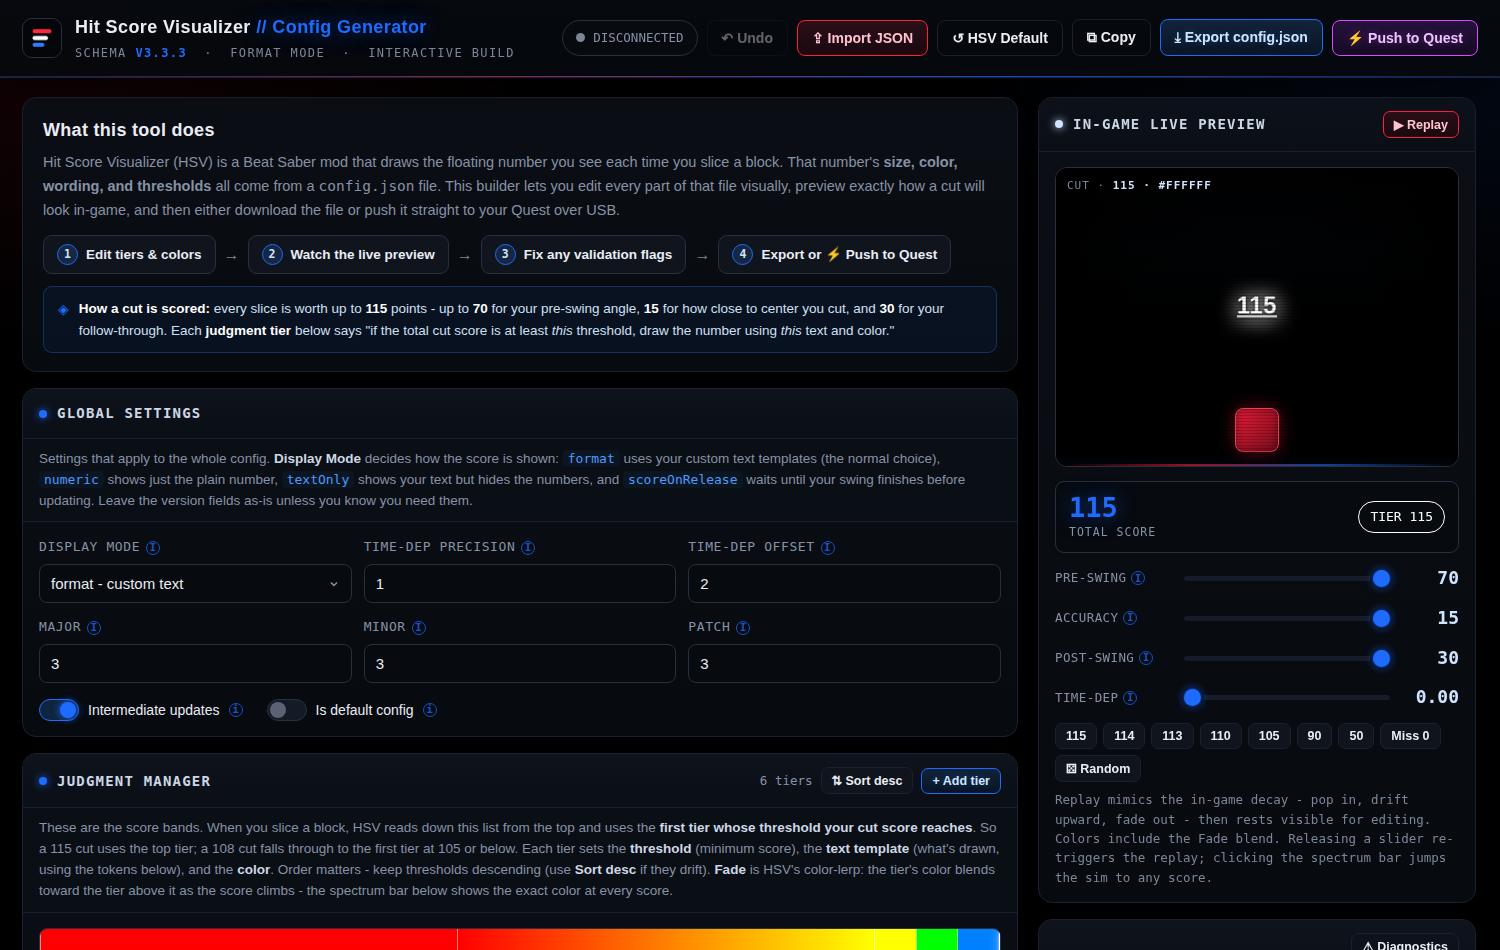
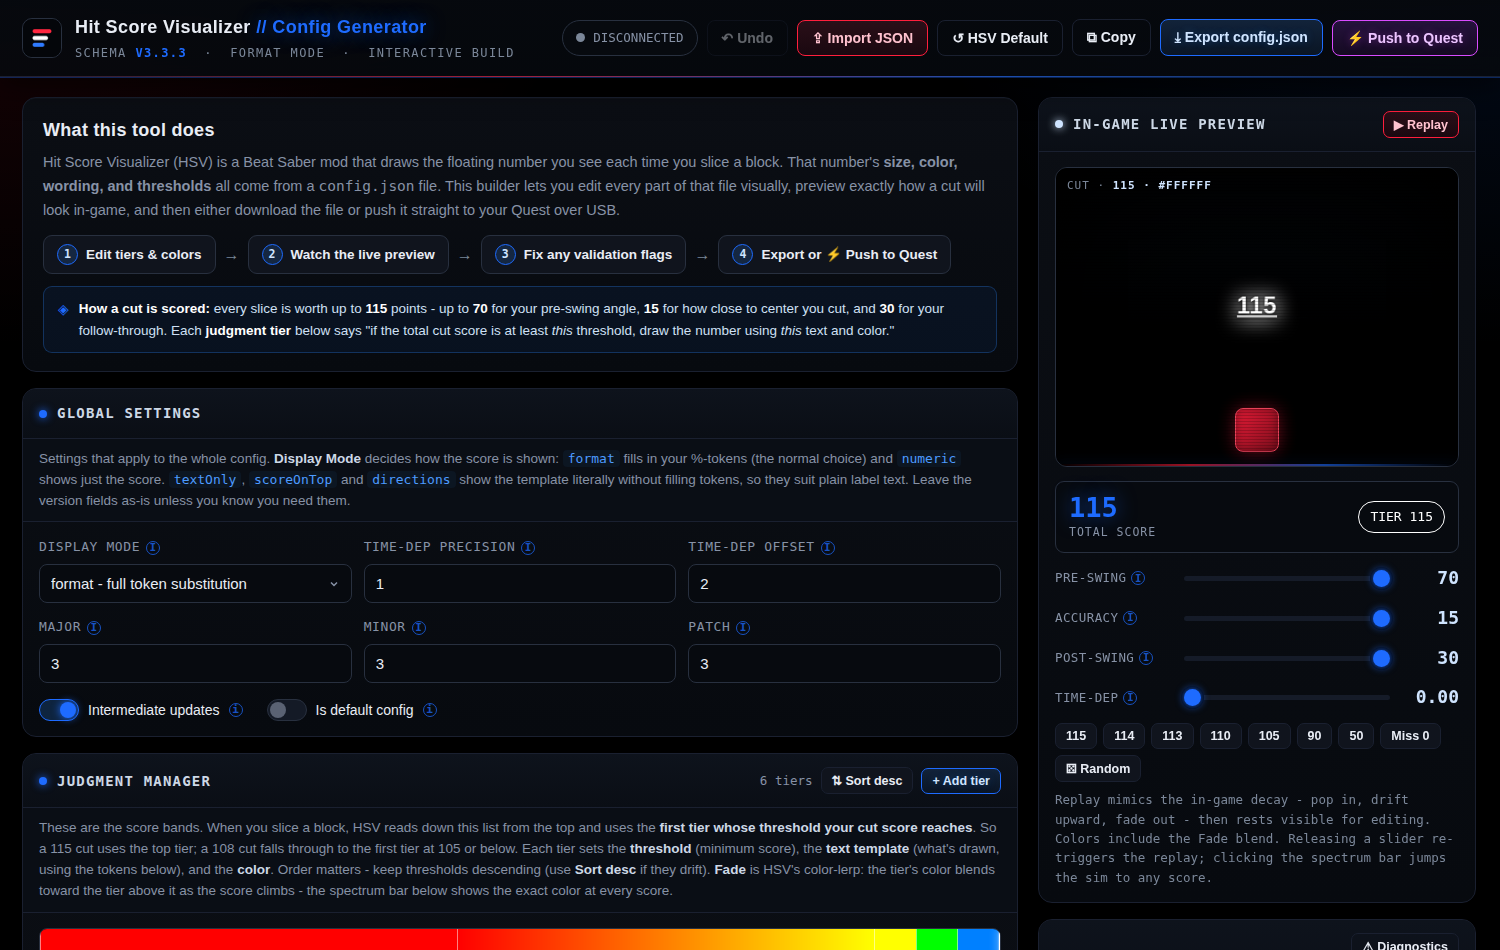
Fix token mapping, display modes, Quest path, and validation
- %t now renders time dependence and %d the cut direction (was swapped)
- Replace invalid scoreOnRelease mode with real scoreOnTop/directions
- Default Quest path drops the nonexistent /Configs subfolder
- Promote mod-fatal conditions (tier order, top-tier fade, bad mode,
  sub-judgment order) from warnings to errors
- Harden the color-tag renderer against style-attribute breakout
- Quest filename reduced to basename; minor validation/drag fixes

Changed region(s): [[0.0307, 0.4579, 0.644, 0.5495], [0.0613, 0.6105, 0.1533, 0.6411]]

diff --git a/index.html b/index.html
@@ -542,16 +542,17 @@ a.kofi-support:hover{transform:translateY(-2px);border-color:#ff2740;box-shadow:
     <!-- Global settings -->
     <section class="panel">
       <div class="panel-head"><span class="dot"></span><h2>Global Settings</h2></div>
-      <div class="panel-sub">Settings that apply to the whole config. <b>Display Mode</b> decides how the score is shown: <code>format</code> uses your custom text templates (the normal choice), <code>numeric</code> shows just the plain number, <code>textOnly</code> shows your text but hides the numbers, and <code>scoreOnRelease</code> waits until your swing finishes before updating. Leave the version fields as-is unless you know you need them.</div>
+      <div class="panel-sub">Settings that apply to the whole config. <b>Display Mode</b> decides how the score is shown: <code>format</code> fills in your %-tokens (the normal choice) and <code>numeric</code> shows just the score. <code>textOnly</code>, <code>scoreOnTop</code> and <code>directions</code> show the template literally without filling tokens, so they suit plain label text. Leave the version fields as-is unless you know you need them.</div>
       <div class="panel-body">
         <div class="grid-3">
           <div>
-            <label class="field">Display Mode <span class="info" data-tip="How HSV draws the score popup. format = your custom text templates (normal choice). numeric = just the plain number. textOnly = your words with the numbers stripped. scoreOnRelease = waits until your swing fully finishes instead of updating mid-swing.">i</span></label>
+            <label class="field">Display Mode <span class="info" data-tip="How HSV draws the score popup. format = your templates with %-tokens filled in (normal choice). numeric = just the score number, text ignored. textOnly / scoreOnTop / directions show the template literally (tokens are NOT filled in), so those pair with plain label text like FANTASTIC: textOnly = label only, scoreOnTop = score above the label, directions = label then the cut-direction arrow.">i</span></label>
             <select id="displayMode">
-              <option value="format">format - custom text</option>
-              <option value="numeric">numeric - just the number</option>
-              <option value="textOnly">textOnly - text, no numbers</option>
-              <option value="scoreOnRelease">scoreOnRelease - update on release</option>
+              <option value="format">format - full token substitution</option>
+              <option value="numeric">numeric - just the score number</option>
+              <option value="textOnly">textOnly - label text, tokens not replaced</option>
+              <option value="scoreOnTop">scoreOnTop - score above your text</option>
+              <option value="directions">directions - your text + cut arrow</option>
             </select>
           </div>
           <div>
@@ -655,7 +656,8 @@ a.kofi-support:hover{transform:translateY(-2px);border-color:#ff2740;box-shadow:
           <span class="tokenchip c2" title="Pre-swing text from Before-Cut judgments">%B</span>
           <span class="tokenchip c2" title="Accuracy text from Accuracy judgments">%C</span>
           <span class="tokenchip c2" title="Post-swing text from After-Cut judgments">%A</span>
-          <span class="tokenchip" title="Time dependence value">%d</span>
+          <span class="tokenchip" title="Time dependence value">%t</span>
+          <span class="tokenchip" title="Cut-direction arrow (bad cuts); blank on a clean cut">%d</span>
           <span class="tokenchip c2" title="Time dependence text">%T</span>
           <span class="tokenchip" title="Newline">%n</span>
           <span class="tokenchip" title="Literal percent sign">%%</span>
@@ -714,14 +716,14 @@ a.kofi-support:hover{transform:translateY(-2px);border-color:#ff2740;box-shadow:
         <ol class="steps">
           <li>On the Quest, enable <b>Developer Mode</b> (Meta Quest phone app → your headset → Developer Mode → on).</li>
           <li>Plug the headset into this PC with a USB-C cable. Inside the headset, approve <b>"Allow USB debugging"</b> when it pops up (tick <i>Always allow</i>).</li>
-          <li>Beat Saber must have been launched <b>at least once with HSV installed</b>, so the <code>Configs</code> folder exists.</li>
+          <li>Beat Saber must have been launched <b>at least once with HSV installed</b>, so the mod has created its folder.</li>
           <li>Click <b>Connect</b>, pick your headset in Chrome's device list, then <b>Push config</b>.</li>
         </ol>
 
         <div class="field-row">
           <div>
             <label class="field">Destination folder <span class="info" data-tip="The folder on the Quest where the HSV mod looks for config files. The default is the standard modded-Beat-Saber path - only change it if your setup stores mod data somewhere else.">i</span></label>
-            <input type="text" id="qPath" spellcheck="false" value="/sdcard/ModData/com.beatgames.beatsaber/Mods/HitScoreVisualizer/Configs">
+            <input type="text" id="qPath" spellcheck="false" value="/sdcard/ModData/com.beatgames.beatsaber/Mods/HitScoreVisualizer">
           </div>
         </div>
         <div class="field-row">
@@ -751,7 +753,7 @@ a.kofi-support:hover{transform:translateY(-2px);border-color:#ff2740;box-shadow:
           <div class="hb">
             <b style="color:#cdd8e2">"Push to Quest" is greyed out or says WebUSB unavailable</b> - WebUSB needs desktop Chrome or Edge (Firefox and Safari don't support it), and the app must be in its own browser tab, not embedded inside another page. Open <a href="https://spanky3651.github.io/HSV-Config-Generator/" target="_blank" rel="noopener">the app directly</a> and try again.<br><br>
             <b style="color:#cdd8e2">Headset never appears in the picker</b> - the cable must carry data (some charge-only cables don't), Developer Mode must be on, and you must accept the USB-debugging prompt inside the headset. Make sure no other ADB tool (SideQuest, BMBF, a terminal <code>adb</code>) is holding the connection - only one can own it at a time.<br><br>
-            <b style="color:#cdd8e2">"Configs folder not found"</b> - launch Beat Saber once with HSV installed so the mod creates its folder, then try again. You can also point <i>Destination folder</i> anywhere you like.<br><br>
+            <b style="color:#cdd8e2">"HSV folder not found"</b> - launch Beat Saber once with HSV installed so the mod creates its folder, then try again. You can also point <i>Destination folder</i> anywhere you like.<br><br>
             <b style="color:#cdd8e2">In-game</b> - after pushing, open Beat Saber → Mods → HitScoreVisualizer and select the config (or reload) to apply it.
           </div>
         </details>
@@ -782,7 +784,7 @@ a.kofi-support:hover{transform:translateY(-2px);border-color:#ff2740;box-shadow:
 
 <div class="foot">
   HitScoreVisualizer config generator · single-file build · no external dependencies<br>
-  Export produces a schema-valid config.json ready for the HSV mod's <span style="color:var(--accent)">/UserData/HitScoreVisualizer/Configs/</span> folder.<br>
+  Export produces a schema-valid config.json ready for the HSV mod's <span style="color:var(--accent)">HitScoreVisualizer</span> folder (UserData on PC, ModData on Quest).<br>
   <a class="credit" href="https://beatleader.com/u/76561199153577883" target="_blank" rel="noopener" title="MSploit on BeatLeader">
[1 lines of base64/hex data omitted]
     <span class="ctxt">
@@ -797,7 +799,7 @@ a.kofi-support:hover{transform:translateY(-2px);border-color:#ff2740;box-shadow:
   </div>
   <div class="foot-meta">
     <div class="foot-count" id="footCount" hidden></div>
-    <div class="foot-updated" id="footUpdated" data-updated="2026-10-04T10:29:31Z">Last updated recently</div>
+    <div class="foot-updated" id="footUpdated" data-updated="2026-10-06T00:00:00Z">Last updated recently</div>
   </div>
 </div>
 
@@ -948,7 +950,8 @@ function substituteTokens(text, s){
   out = out.replace(/%a/g, s.post);
   out = out.replace(/%s/g, total);
   out = out.replace(/%p/g, (total/115*100).toFixed(2));
-  out = out.replace(/%d/g, fmtTimeDep(s.timeDep));
+  out = out.replace(/%t/g, fmtTimeDep(s.timeDep));  // time dependence value (mod token is %t)
+  out = out.replace(/%d/g, s.dir||"");              // cut-direction arrow; empty on a clean cut
   out = out.replace(/%n/g, "\n");
   out = out.replace(//g, "%");
   return out;
@@ -961,16 +964,22 @@ function escapeHtml(t){
   return t.replace(/&/g,"&amp;").replace(/</g,"&lt;").replace(/>/g,"&gt;");
 }
 function colorTagToCss(val){
-  val = val.trim().replace(/^"|"$/g,"");
-  if(val[0]==="#"){
-    let h=val.slice(1);
+  // Rendered into a style="" attribute, so accept ONLY hex or a letters-only
+  // named color; anything else (quotes, spaces, semicolons) is rejected so a
+  // crafted <color=...> tag in an imported config cannot break out of the attribute.
+  val = String(val).trim().replace(/^"|"$/g,"");
+  const m = val.match(/^#([0-9a-fA-F]+)$/);
+  if(m){
+    const h=m[1];
     if(h.length===8){
       const r=parseInt(h.slice(0,2),16),g=parseInt(h.slice(2,4),16),b=parseInt(h.slice(4,6),16),a=parseInt(h.slice(6,8),16)/255;
       return "rgba("+r+","+g+","+b+","+a.toFixed(3)+")";
     }
-    return "#"+h;
+    if(h.length===3||h.length===4||h.length===6) return "#"+h;   // CSS-valid hex (TMP allows #RGB/#RGBA too)
+    return "inherit";                                            // 5/7 hex digits = invalid
   }
-  return val; // named color
+  if(/^[a-zA-Z]+$/.test(val)) return val.toLowerCase();          // named color
+  return "inherit";                                             // reject everything else
 }
 function tmpToHtml(str){
   const parts = str.split(/(<[^>]*>)/g);
@@ -1047,7 +1056,7 @@ function renderJudgments(){
           <input type="number" value="${j.threshold}" data-field="threshold" data-idx="${idx}" min="0" max="115" step="1">
         </div>
         <div class="jgrow">
-          <label class="field">Text template <span class="info" data-tip="What gets drawn for this tier. Tokens: %s = score, %B / %C / %A = swing-part text from the Sub-Judgments panel, %d / %T = time dependency, %n = newline. Style with TMP tags like <size=150%> or <color=#1e6bff>.">i</span></label>
+          <label class="field">Text template <span class="info" data-tip="What gets drawn for this tier. Tokens: %s = score, %B / %C / %A = swing-part text from the Sub-Judgments panel, %t / %T = time dependency, %d = cut direction, %n = newline. Style with TMP tags like <size=150%> or <color=#1e6bff>.">i</span></label>
           <textarea data-field="text" data-idx="${idx}" rows="1" spellcheck="false">${escapeHtml(j.text||"")}</textarea>
         </div>
         <div class="jcard-tools">
@@ -1145,6 +1154,7 @@ let dragIdx=null;
 function attachDragEvents(){
   document.querySelectorAll('#jlist .jcard').forEach(card=>{
     card.addEventListener("dragstart",e=>{ dragIdx=+card.dataset.idx; e.dataTransfer.effectAllowed="move"; });
+    card.addEventListener("dragend",()=>{ dragIdx=null; });  // clear so a cancelled drag cannot move a tier later
     card.addEventListener("dragover",e=>{ e.preventDefault(); card.classList.add("dragover"); });
     card.addEventListener("dragleave",()=>card.classList.remove("dragover"));
     card.addEventListener("drop",e=>{
@@ -1241,10 +1251,11 @@ function renderPreview(triggerAnim){
   if(state.displayMode==="numeric"){
     rendered = String(total);
   } else if(state.displayMode==="textOnly"){
-    // text template but with numeric score tokens blanked
-    let t = String(tier.text||"");
-    t = t.replace(/%s/g,"").replace(/%b/g,"").replace(/%c/g,"").replace(/%a/g,"").replace(/%p/g,"").replace(/%d/g,"");
-    rendered = substituteTokens(t, sim);
+    rendered = String(tier.text||"");                        // mod shows the template literally (no token fill)
+  } else if(state.displayMode==="scoreOnTop"){
+    rendered = total + "\n" + String(tier.text||"");         // score on top, then the raw template
+  } else if(state.displayMode==="directions"){
+    rendered = String(tier.text||"") + "\n";                 // raw template, then cut direction (blank in sim)
   } else {
     rendered = substituteTokens(tier.text||"", sim);
   }
@@ -1332,7 +1343,7 @@ function validate(){
     if(J[i].threshold in seen){ items.push(["err","Duplicate threshold "+J[i].threshold+" (tiers #"+(seen[J[i].threshold]+1)+" & #"+(i+1)+"). Only the first is ever reachable."]); }
     else seen[J[i].threshold]=i;
     if(i>0 && J[i].threshold >= J[i-1].threshold){
-      items.push(["warn","Tier #"+(i+1)+" (thr "+J[i].threshold+") is not below tier #"+i+" (thr "+J[i-1].threshold+"). HSV matches top-down - this tier may be unreachable. Use “Sort desc”."]);
+      items.push(["err","Tier #"+(i+1)+" (thr "+J[i].threshold+") is not below tier #"+i+" (thr "+J[i-1].threshold+"). HSV rejects a config whose tiers are not in descending order. Use “Sort desc”."]);
     }
     if(J[i].threshold>115) items.push(["warn","Tier #"+(i+1)+" threshold "+J[i].threshold+" exceeds the 115 max cut score - unreachable."]);
     if(J[i].threshold<0) items.push(["err","Tier #"+(i+1)+" has a negative threshold."]);
@@ -1356,7 +1367,7 @@ function validate(){
       if(opens>closes){ items.push(["warn","Tier #"+(i+1)+" has "+(opens-closes)+" rich-text tag(s) opened but never closed - styles may leak in-game."]); }
       // unknown % tokens (strip rich-text tags first so <size=200%> isn't mistaken for a token)
       const stripped=t.replace(/<[^>]*>/g,"").replace(/%%/g,"");
-      const bad=(stripped.match(/%[^BbCcAasdpTn]/g)||[]);
+      const bad=(stripped.match(/%[^BbCcAasdpTtn]/g)||[]);
       if(bad.length){ items.push(["warn","Tier #"+(i+1)+" has unrecognized token(s): "+[...new Set(bad)].join(", ")+"."]); }
     });
   }
@@ -1369,7 +1380,7 @@ function validate(){
       if(r.threshold>max) items.push(["warn",lbl+" row #"+(i+1)+" threshold "+r.threshold+" exceeds its "+max+" max."]);
       if(r.threshold<0) items.push(["err",lbl+" row #"+(i+1)+" threshold is negative."]);
     });
-    for(let i=1;i<arr.length;i++){ if(arr[i].threshold>=arr[i-1].threshold){ items.push(["warn",lbl+" rows are not in descending order - check row #"+(i+1)+"."]); break; } }
+    for(let i=1;i<arr.length;i++){ if(arr[i].threshold>=arr[i-1].threshold){ items.push(["err",lbl+" rows must be in descending order with no duplicate thresholds, or HSV rejects the config - check row #"+(i+1)+"."]); break; } }
     if(arr.length && !arr.some(r=>r.threshold<=0)) items.push(["warn",lbl+" has no 0 catch-all row."]);
   });
 
@@ -1379,10 +1390,10 @@ function validate(){
 
   // config-level sanity
   if(state.isDefaultConfig){ items.push(["warn","isDefaultConfig is true - HSV treats default configs as its own and may overwrite or ignore your edits. Keep it false for custom configs."]); }
-  const VALID_MODES=["format","numeric","textOnly","scoreOnRelease"];
-  if(VALID_MODES.indexOf(state.displayMode)===-1){ items.push(["warn","displayMode \""+state.displayMode+"\" is not a standard HSV mode ("+VALID_MODES.join(" / ")+")."]); }
+  const VALID_MODES=["format","numeric","textOnly","scoreOnTop","directions"];
+  if(VALID_MODES.indexOf(state.displayMode)===-1){ items.push(["err","displayMode \""+state.displayMode+"\" is not a valid HSV mode, so the config will not load. Use one of: "+VALID_MODES.join(" / ")+"."]); }
   const sortedJx=J.slice().sort((a,b)=>b.threshold-a.threshold);
-  if(sortedJx.length && sortedJx[0].fade){ items.push(["warn","The highest tier ("+sortedJx[0].threshold+") has Fade on, but there is no tier above it to blend toward - Fade does nothing there."]); }
+  if(sortedJx.length && sortedJx[0].fade){ items.push(["err","The highest tier ("+sortedJx[0].threshold+") has Fade on. HSV rejects a config whose top judgment has fade=true - turn Fade off on the highest tier."]); }
 
   if(!items.length){ items.push(["ok","Config is valid. No conflicts detected."]); }
 
@@ -1552,8 +1563,8 @@ document.getElementById("tdOffset").addEventListener("input",e=>{ state.timeDepe
 document.getElementById("verMajor").addEventListener("input",e=>{ state.majorVersion=clampInt(e.target.value,0,99); refreshLive(); });
 document.getElementById("verMinor").addEventListener("input",e=>{ state.minorVersion=clampInt(e.target.value,0,99); refreshLive(); });
 document.getElementById("verPatch").addEventListener("input",e=>{ state.patchVersion=clampInt(e.target.value,0,99); refreshLive(); });
-document.getElementById("doInter").addEventListener("change",e=>{ state.doIntermediateUpdates=e.target.checked; updateJsonView(); });
-document.getElementById("isDefault").addEventListener("change",e=>{ state.isDefaultConfig=e.target.checked; updateJsonView(); });
+document.getElementById("doInter").addEventListener("change",e=>{ state.doIntermediateUpdates=e.target.checked; refreshLive(); });
+document.getElementById("isDefault").addEventListener("change",e=>{ state.isDefaultConfig=e.target.checked; refreshLive(); });
 
 // Judgment add / sort
 document.getElementById("btnAddJudgment").addEventListener("click",()=>{
@@ -1827,7 +1838,7 @@ async function questConnect(){
     track("quest-connect");
     qlog("Authenticated. Connected to "+model+".","ok");
 
-    // Check the Configs folder exists
+    // Check the destination (HSV mod) folder exists
     await checkConfigsFolder();
 
     Q.el.push.disabled=false;
@@ -1876,11 +1887,11 @@ async function checkConfigsFolder(){
     await sync.dispose?.();
     Q.el.configs.textContent = exists ? "found ✓" : "not found";
     Q.el.configs.style.color = exists ? "var(--accent)" : "var(--warn)";
-    if(exists) qlog("Configs folder found on headset.","ok");
-    else qlog("Configs folder not found - launch Beat Saber once with HSV installed, or change the destination path.","warn");
+    if(exists) qlog("HSV folder found on headset.","ok");
+    else qlog("HSV folder not found - launch Beat Saber once with HSV installed, or change the destination path.","warn");
     return exists;
   }catch(e){
-    qlog("Could not stat Configs folder: "+((e&&e.message)||e),"warn");
+    qlog("Could not stat the destination folder: "+((e&&e.message)||e),"warn");
     Q.el.configs.textContent="unknown";
     return false;
   }
@@ -1890,7 +1901,8 @@ async function questPush(){
   if(!Q.adb){ qlog("Not connected.","err"); return; }
   Q.el.push.disabled=true;
   const dir=Q.el.path.value.trim().replace(/\/+$/,"");
-  let fname=Q.el.name.value.trim()||"config.json";
+  // basename only, and no leading dots, so a filename cannot escape the destination folder
+  let fname=((Q.el.name.value.trim().split(/[\/\\]/).pop())||"").replace(/^\.+/,"").trim()||"config.json";
   if(!/\.json$/i.test(fname)) fname+=".json";
   const fullPath=dir+"/"+fname;
   const json=JSON.stringify(buildExportObject(),null,2);

diff --git a/README.md b/README.md
@@ -58,7 +58,7 @@ Requirements: **Chrome or Edge on desktop**, a USB-C data cable, and a Quest wit
 
 1. Plug in the headset and click **Connect** - pick the Quest in the browser's device list
 2. Approve **"Allow USB debugging"** inside the headset (tick *Always allow*)
-3. Click **Push config** - the file lands in `/sdcard/ModData/com.beatgames.beatsaber/Mods/HitScoreVisualizer/Configs/`
+3. Click **Push config** - the file lands in `/sdcard/ModData/com.beatgames.beatsaber/Mods/HitScoreVisualizer/`
 4. In Beat Saber: Mods → HitScoreVisualizer → select the config
 
 If the connection fails with a claim/busy error, another ADB server owns the device - quit SideQuest / Quest Link / Android Studio, run `adb kill-server`, replug, and retry. The app's **⚠ Diagnostics** panel walks through exactly this.
